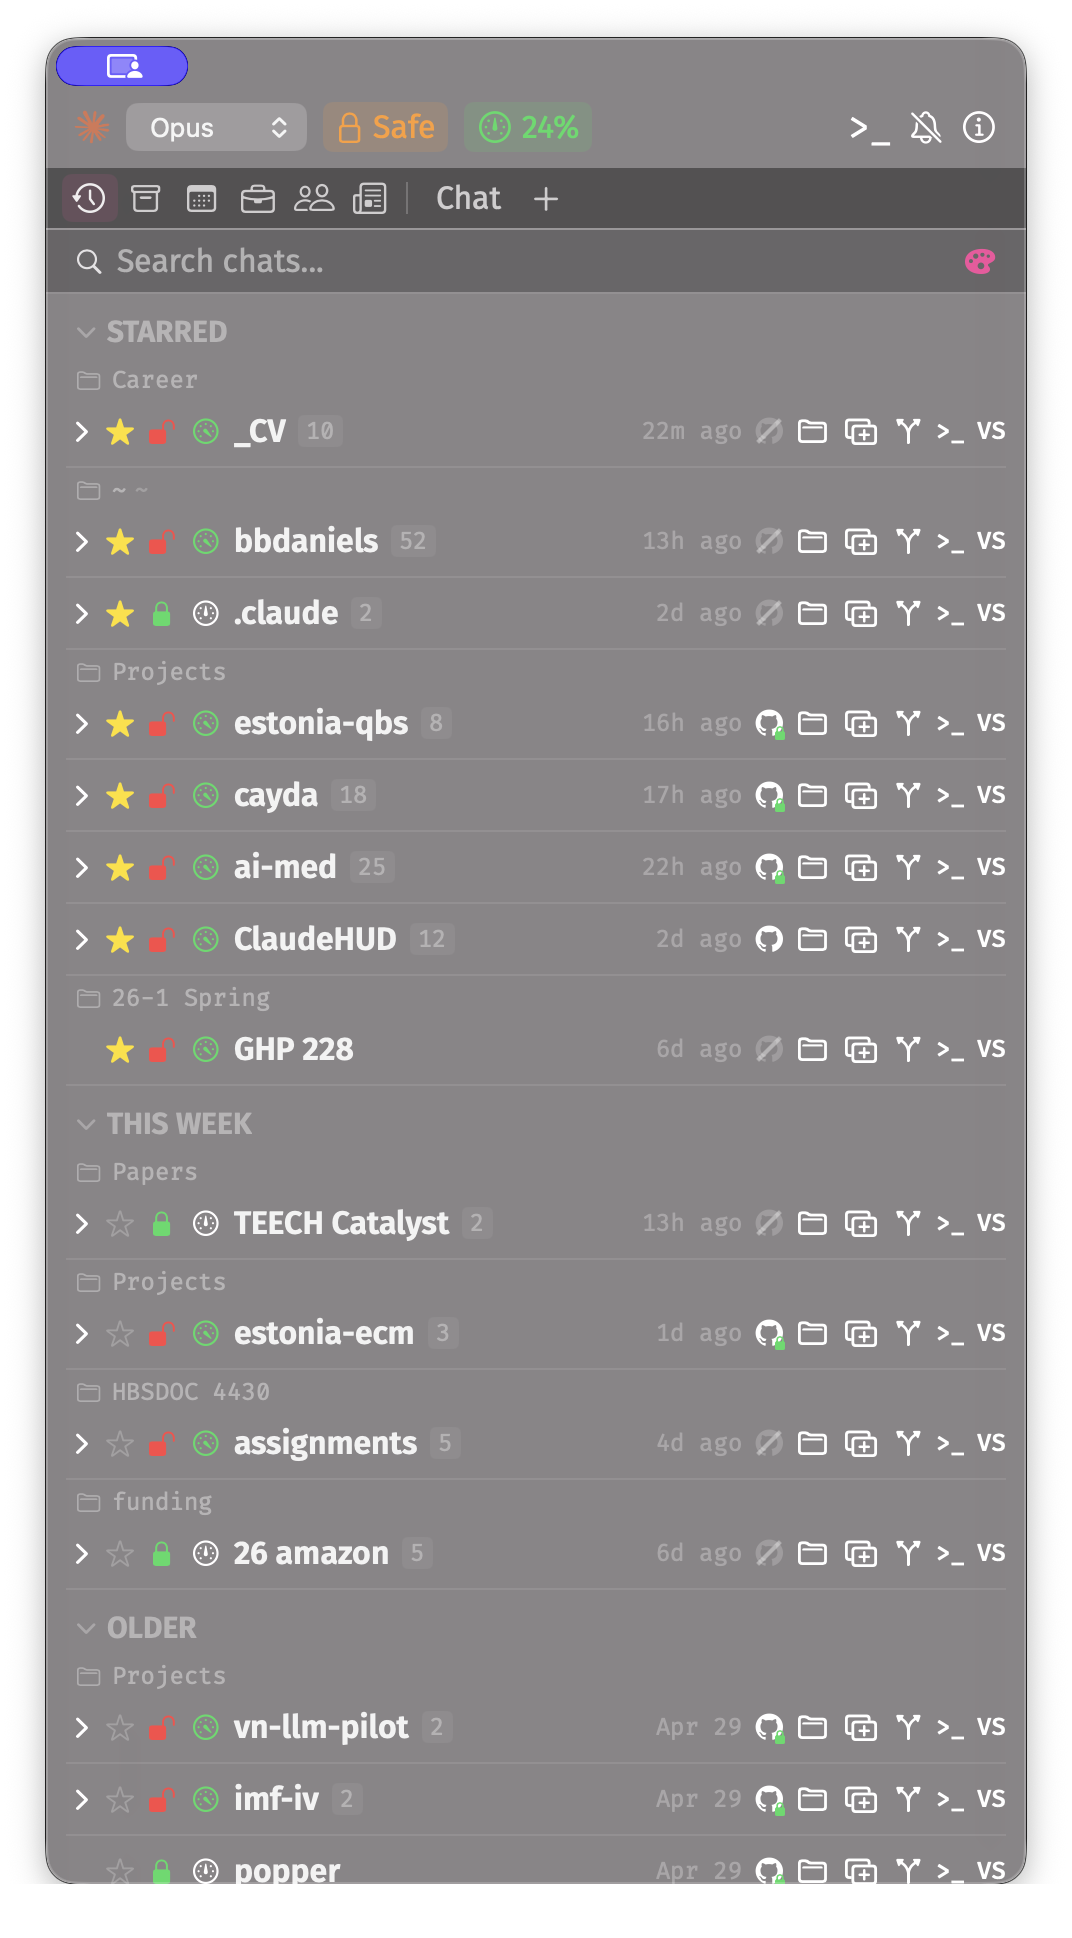
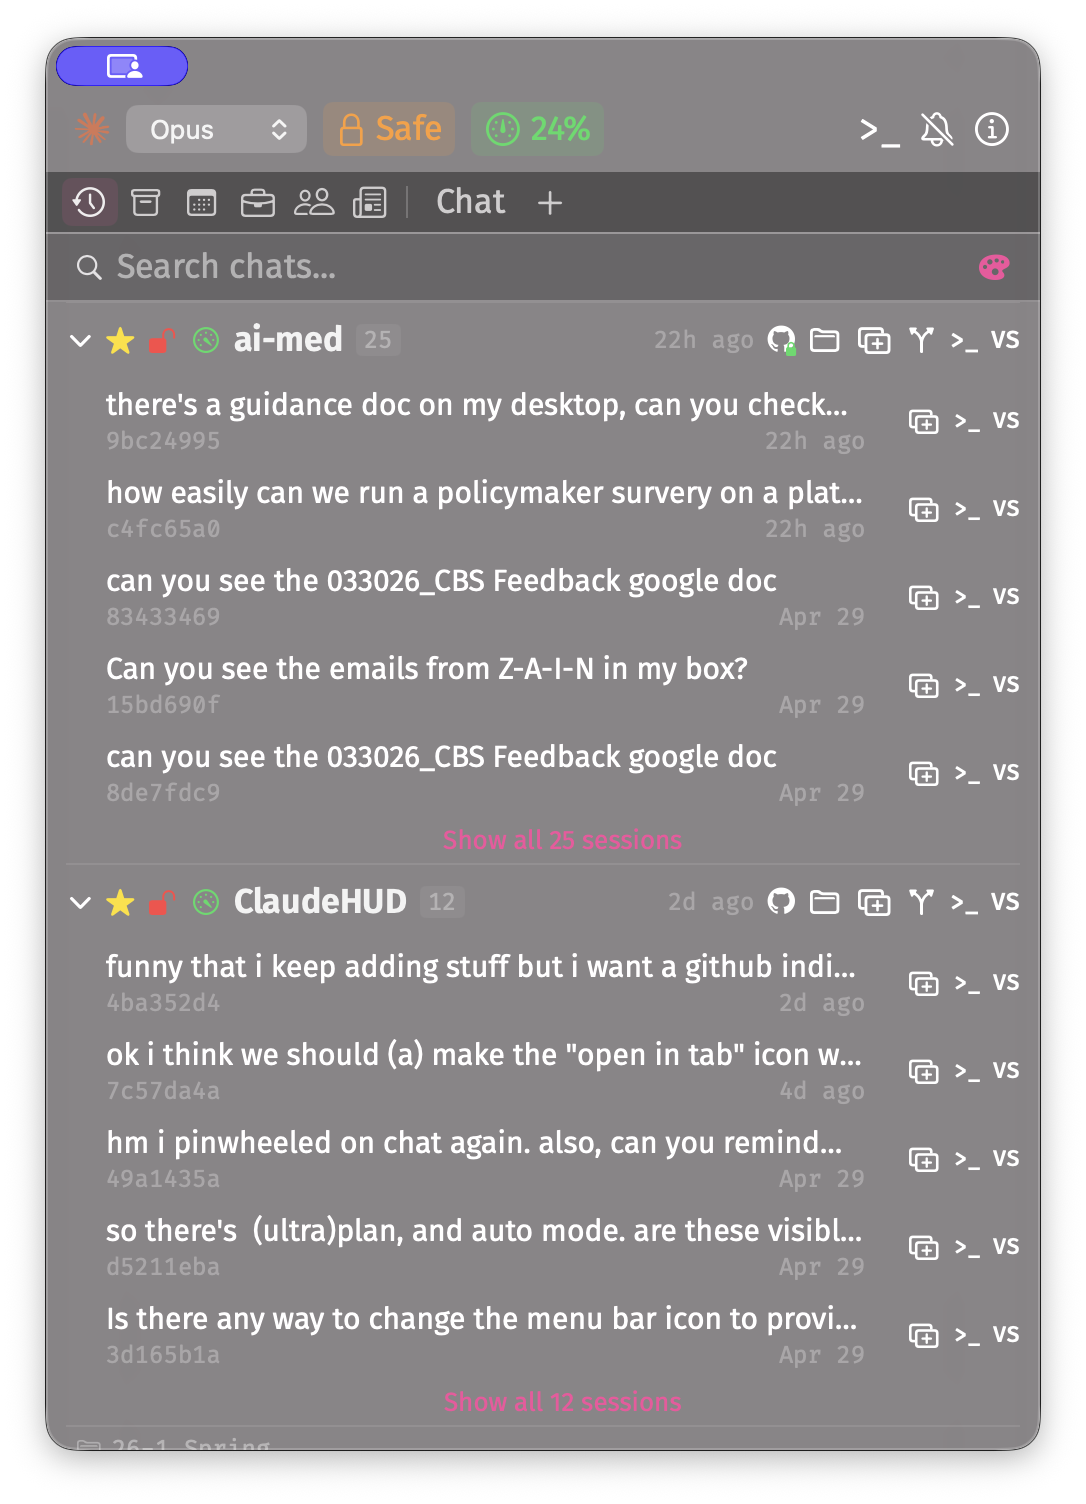
docs: swap README screenshot for current Chat tab view

Changed region(s): [[0.0308, 0.0, 0.9851, 1.0], [0.7388, 0.5, 0.8619, 0.5625]]

diff --git a/README.md b/README.md
@@ -7,7 +7,7 @@ A macOS menu bar app that puts Claude Code at your fingertips. ClaudeHUD is a li
 ![License](https://img.shields.io/badge/license-MIT-green)
 
 <p align="center">
-  <img src="docs/screenshot.png" alt="ClaudeHUD floating panel showing the History tab grouped by project" width="320">
+  <img src="docs/screenshot.png" alt="ClaudeHUD floating panel showing recent chats grouped by project" width="320">
 </p>
 
 ## What it is